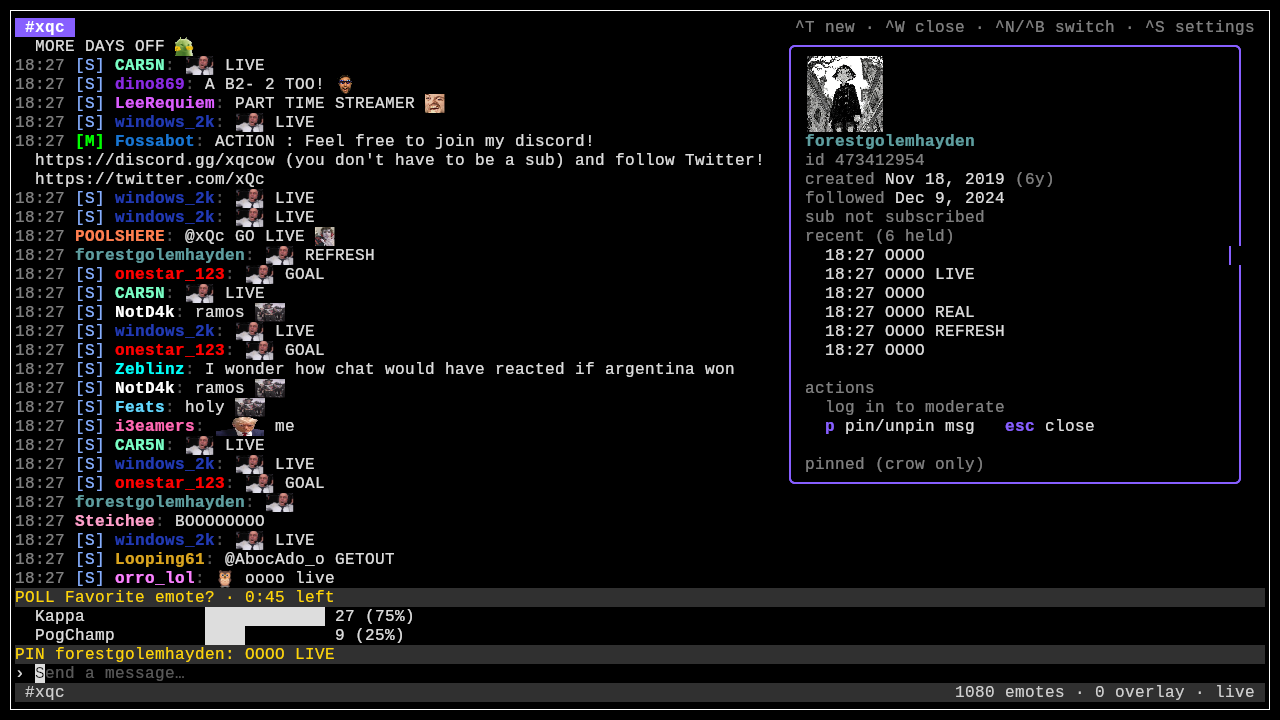
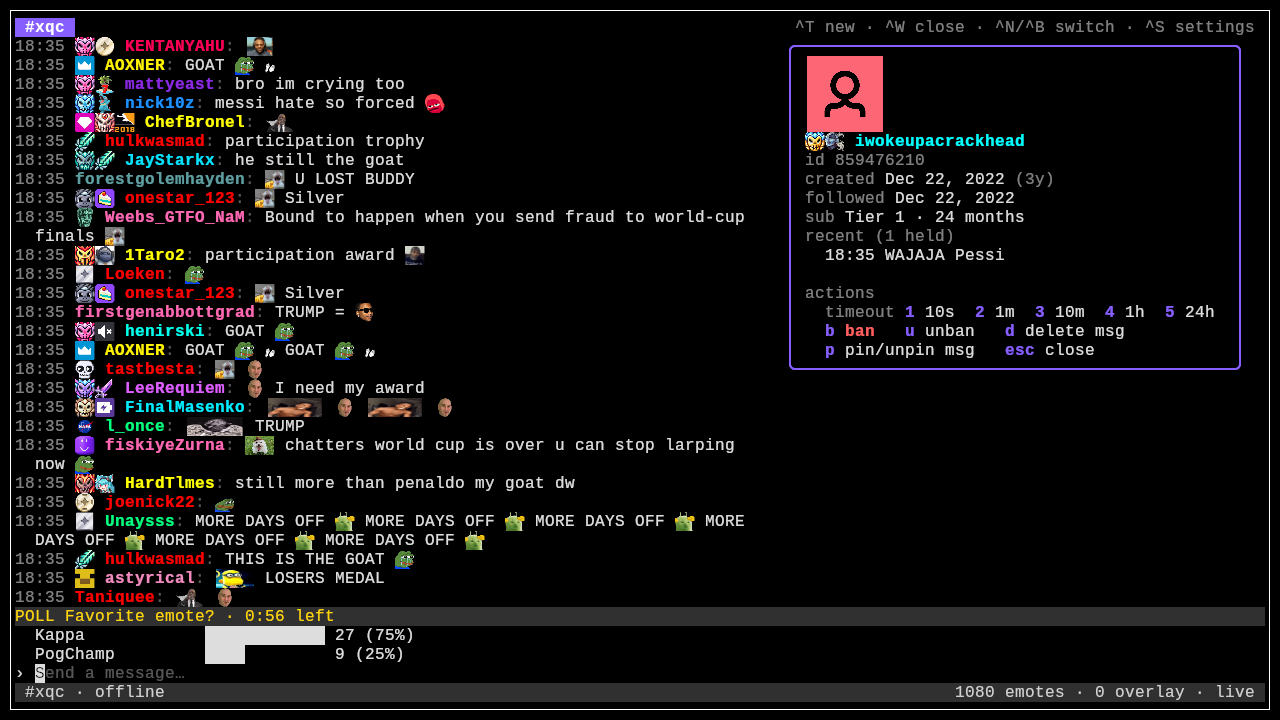
README: logged-in screenshots with badges, plus overlay shots
Retaken with a real session so badge images show. Overlay pages gain
?bg=<css-color> to preview the transparent pages in a plain browser
tab, which is also how the overlay screenshots were taken.

diff --git a/internal/overlay/alerts.html b/internal/overlay/alerts.html
@@ -86,6 +86,11 @@
 (() => {
   "use strict";
 
+  // ?bg=<css-color> fills the normally-transparent background, for previewing
+  // in a plain browser tab instead of OBS.
+  const bg = new URLSearchParams(location.search).get("bg");
+  if (bg) document.body.style.background = bg;
+
   // Keys and defaults match config.AlertOptions' JSON; settings arrive from
   // the server over SSE on connect and whenever they change.
   const defaults = {

diff --git a/internal/overlay/overlay.html b/internal/overlay/overlay.html
@@ -121,6 +121,10 @@
 
   const q = new URLSearchParams(location.search);
 
+  // ?bg=<css-color> fills the normally-transparent background, for previewing
+  // in a plain browser tab instead of OBS.
+  if (q.get("bg")) document.body.style.background = q.get("bg");
+
   const FONTS = [
     '"Inter", "Segoe UI", system-ui, sans-serif',
     '"Roboto", system-ui, sans-serif',

diff --git a/README.md b/README.md
@@ -18,12 +18,19 @@ the overlay, and inline in the TUI on terminals that speak the kitty graphics
 protocol (kitty, ghostty, WezTerm).
 
 ![chat with a live poll running](docs/chat.png)
-*Chat with inline emotes and a `/poll` running — the block updates live and
-shows the final numbers when it closes.*
+*Chat with inline badges and emotes, and a `/poll` running — the block updates
+live and shows the final numbers when it closes.*
 
 | ![moderation card](docs/card.png) | ![stream alerts](docs/alerts.png) |
 |---|---|
 | *Click a name: account info, recent messages, mod actions, `p` to pin.* | *Alerts (follows, subs, bits, members, superchats) highlighted in the feed.* |
+
+The two OBS browser sources (shown here on a dark preview background,
+`?bg=<color>`; they're transparent in OBS):
+
+| ![chat overlay](docs/overlay.png) | ![alerts overlay](docs/alert-overlay.png) |
+|---|---|
+| *Chat overlay.* | *Alerts overlay.* |
 
 ## Features
 
